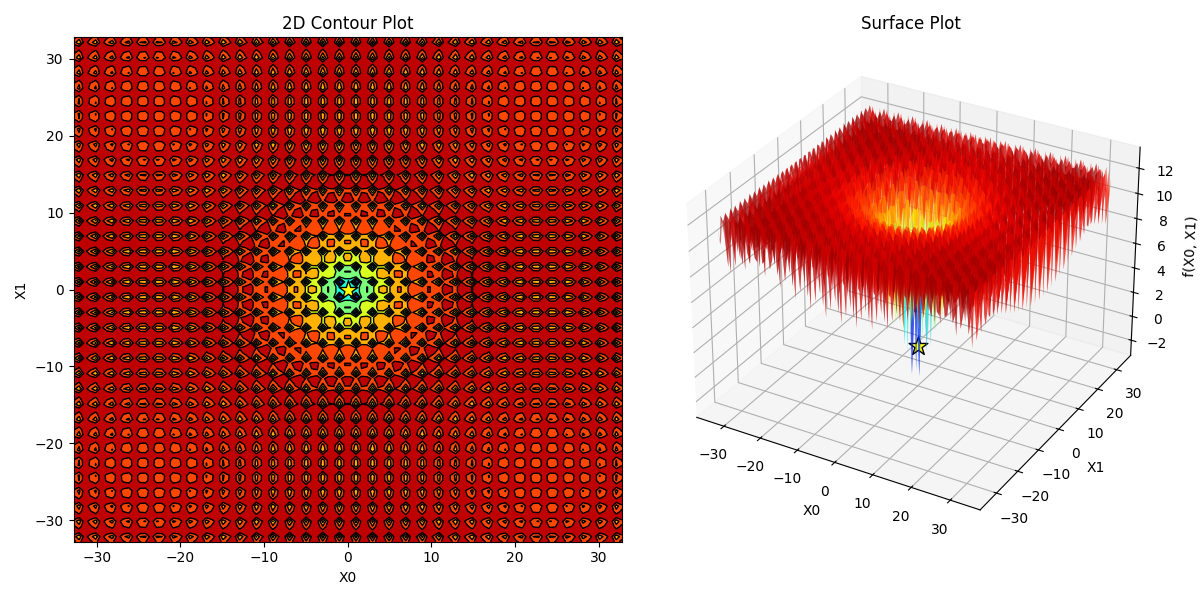
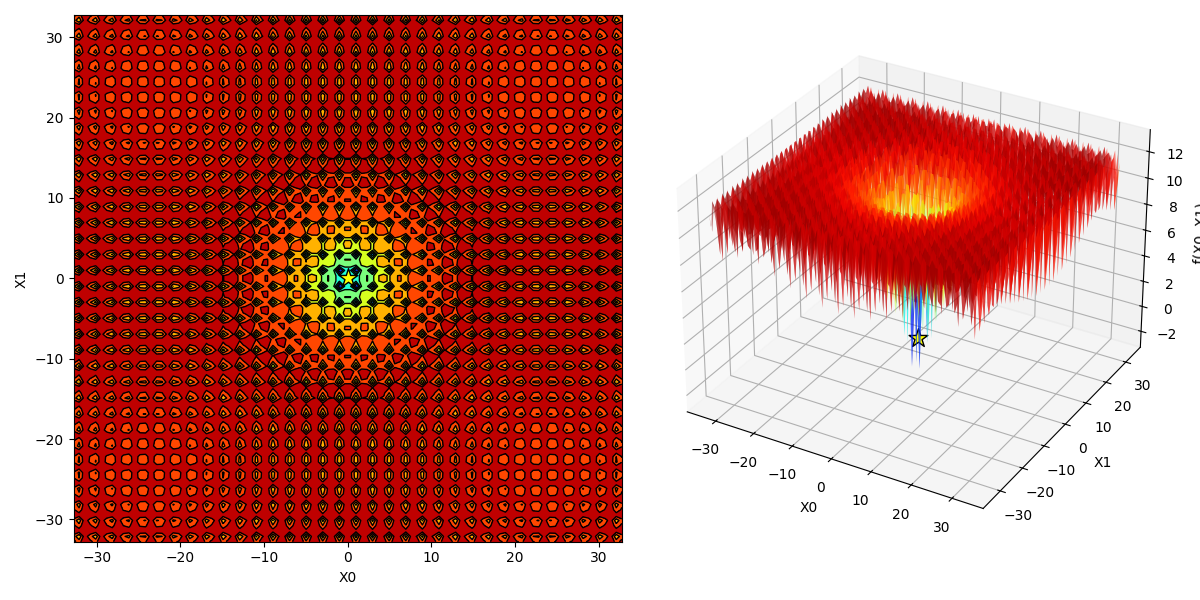
Added Ackley demo image

diff --git a/src/objective_functions/objective_function.py b/src/objective_functions/objective_function.py
@@ -327,7 +327,6 @@ class ObjectiveFunction(ABC):
             axs[0].contour(cs, colors='k', linewidths=1.0)
             axs[0].set_xlabel(f"X{dimensions[0]}")
             axs[0].set_ylabel(f"X{dimensions[1]}")
-            axs[0].set_title("2D Contour Plot")
 
             # Show the optimal solution on the contour plot
             if self.optimal_solution_position is not None:
@@ -377,7 +376,6 @@ class ObjectiveFunction(ABC):
             axs[1].set_xlabel(f"X{dimensions[0]}")
             axs[1].set_ylabel(f"X{dimensions[1]}")
             axs[1].set_zlabel(f"f(X{dimensions[0]}, X{dimensions[1]})")
-            axs[1].set_title("Surface Plot")
      
             # Show the optimal solution on the surface plot
             if self.optimal_solution_position is not None:

diff --git a/main.py b/main.py
@@ -22,7 +22,7 @@ from src.objective_functions.subclasses.levy import Levy
 
 if __name__ == "__main__":
 
-    foo = Levy().visualize()
+    foo = Ackley().visualize()
 
 
     #foo.apply_noise(0, 0.5)
